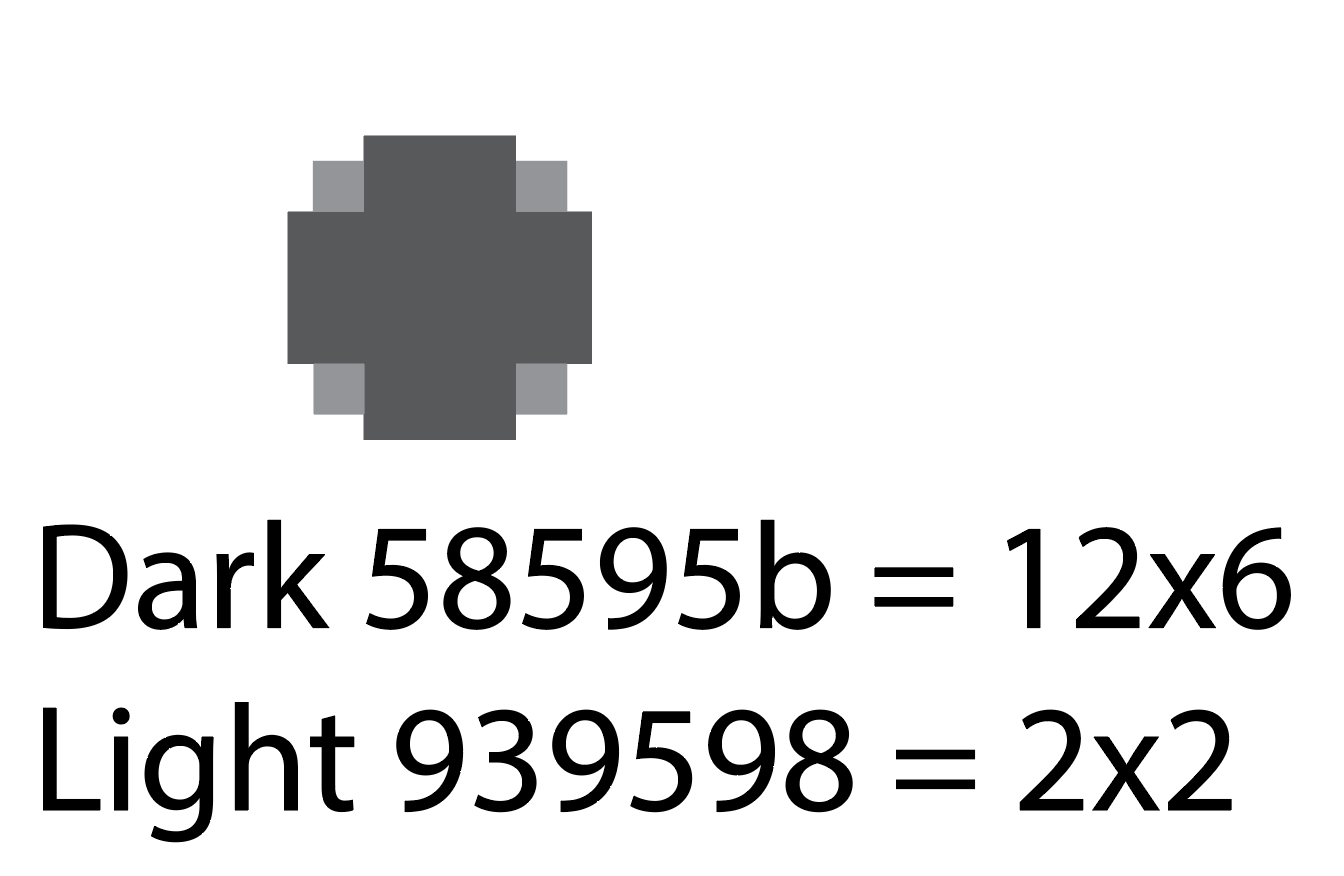
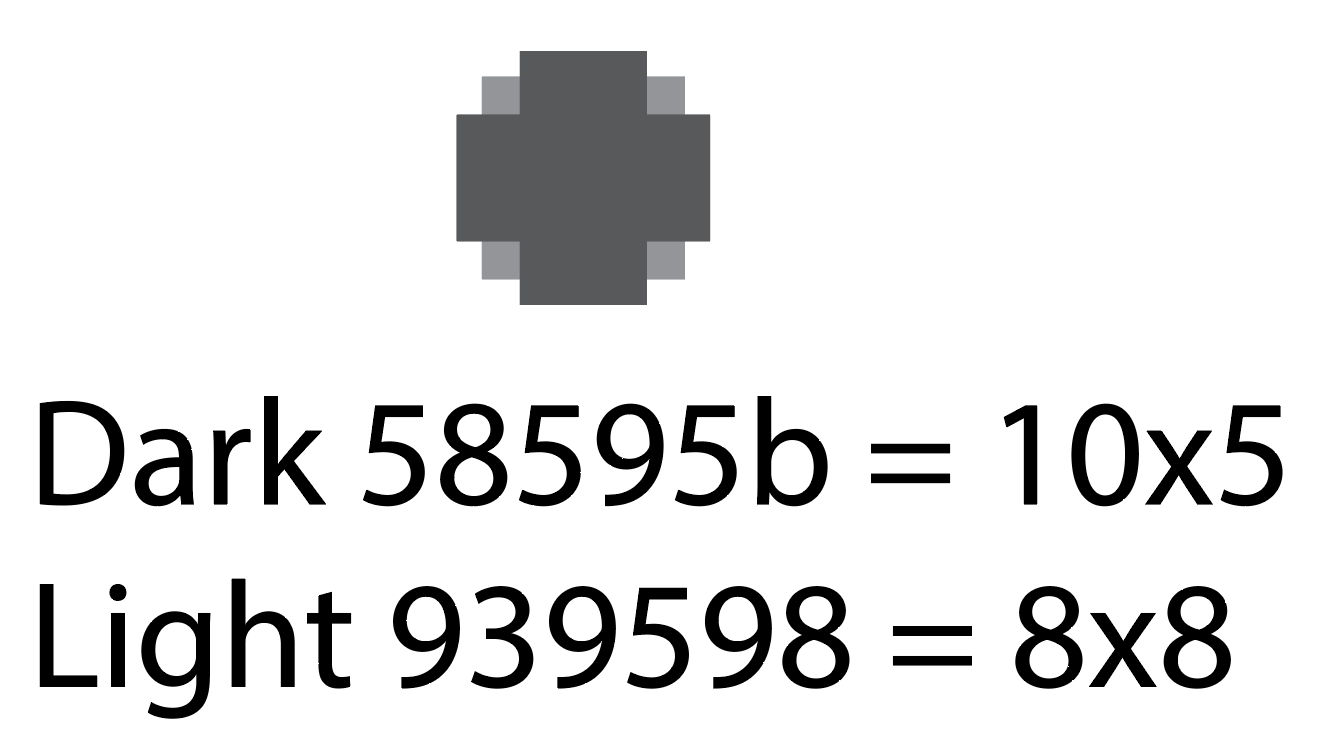
works with png dot

diff --git a/README.MD b/README.MD
@@ -1,5 +1,7 @@
 # garmin watch face 390x390 dot matrix print look
-<img src="assets/hour-minute-dots.png">
+<img src="assets/png-dot.png">
 
 I bumped the API to 5.0 and am trying to understand the wide range of coding styles in the samples.<br><br>
 This is the first bitmap background that I'm using, and there are a lot of code samples that use, for example layers or other fancy instantiations of background classes, but we're only supposed to draw in onUpdate(). 
+
+Made a new branch and switched to cloning a png resource instead of drawing the dot from scratch each time.
